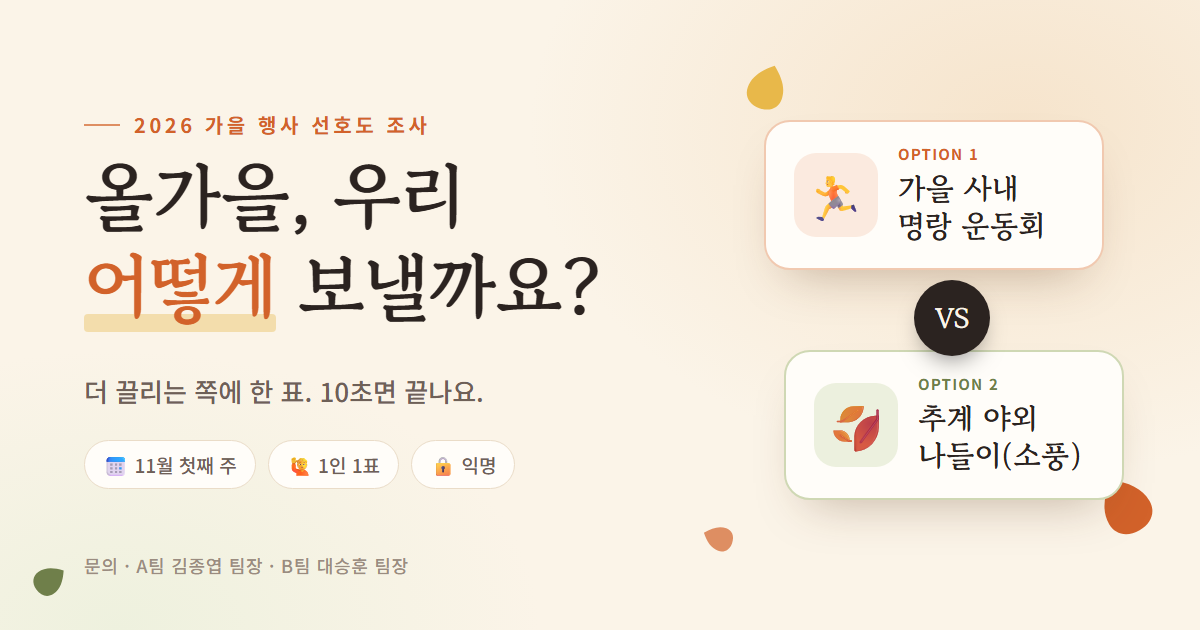
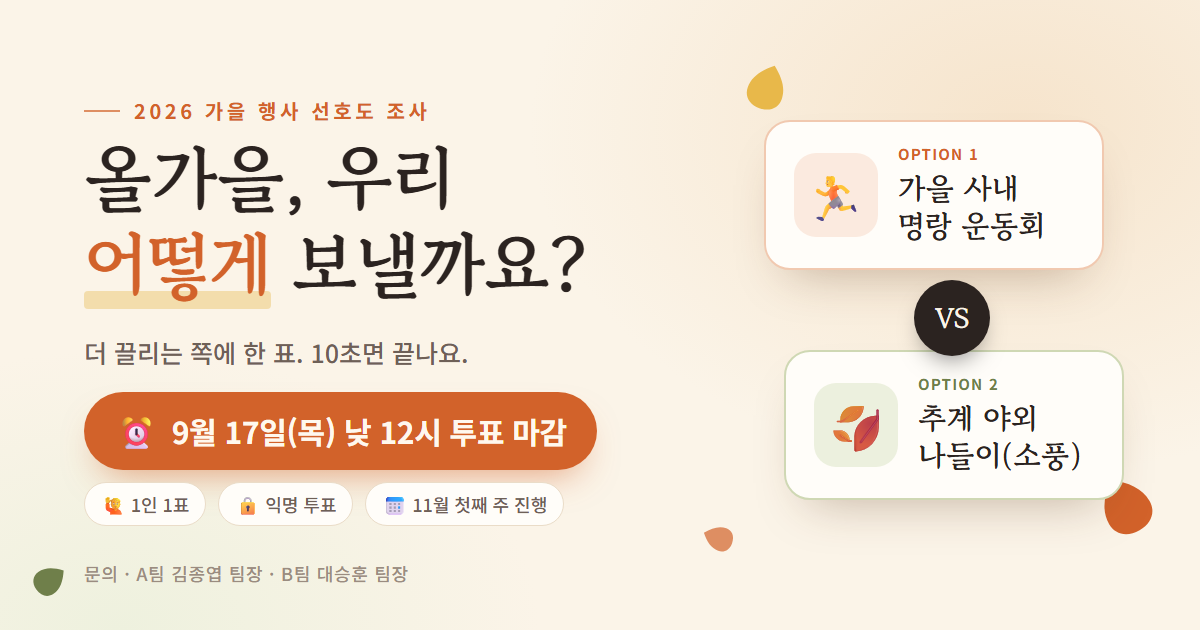
카톡 미리보기 썸네일에 투표 마감(9/17 낮 12시) 배지 추가

Changed region(s): [[0.0617, 0.1508, 0.5242, 0.8143], [0.0617, 0.8746, 0.3392, 0.9349]]

diff --git a/index.html b/index.html
@@ -18,7 +18,7 @@
 <meta property="og:title" content="올가을, 우리 어떻게 보낼까요? 🍁">
 <meta property="og:description" content="🏃 운동회 vs 🍂 소풍 · 더 끌리는 쪽에 한 표! 익명 투표, 10초면 끝나요. ⏰ 9월 17일(목) 낮 12시 마감">
 <meta property="og:url" content="https://dsh0920-sys.github.io/fall-vote/">
-<meta property="og:image" content="https://dsh0920-sys.github.io/fall-vote/og.png">
+<meta property="og:image" content="https://dsh0920-sys.github.io/fall-vote/og.png?v=2">
 <meta property="og:image:width" content="1200">
 <meta property="og:image:height" content="630">
 <meta property="og:image:alt" content="올가을, 우리 어떻게 보낼까요? 운동회 vs 소풍 투표">
